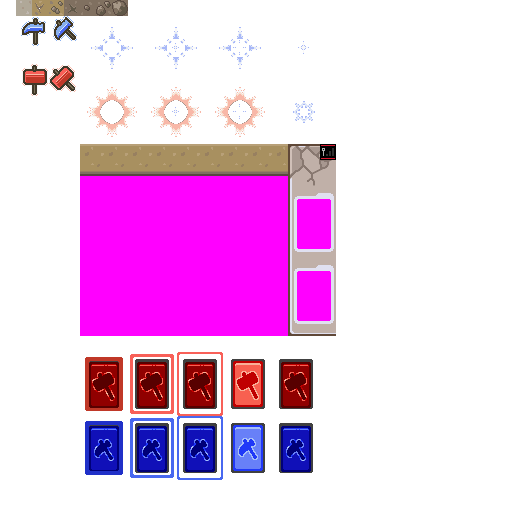
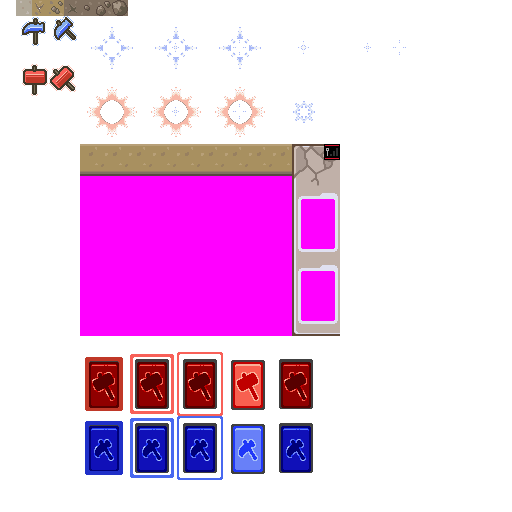
smooth style, DS bg

Changed region(s): [[0.5625, 0.2812, 0.6875, 0.6562], [0.4375, 0.6875, 0.5312, 0.9375]]

diff --git a/src/simulator/board.ts b/src/simulator/board.ts
@@ -308,6 +308,13 @@ export class MiningGrid {
         this._grid_element.id = 'mining-grid'
         set_translation(this._grid_element, tile_size, 0, 2)
 
+        const shadow_overlay = this._background_sprite.element.appendChild(document.createElement('div'))
+        shadow_overlay.id = "overlay"
+        shadow_overlay.style.zIndex = '15'
+        shadow_overlay.style.boxShadow = 'inset 0 0 5em 1px rgb(0 0 0 / 78%), inset 0 0 1em 4px rgb(0 0 0)'
+        shadow_overlay.style.width = this._background_sprite.element.style.width
+        shadow_overlay.style.height = this._background_sprite.element.style.height
+
         this._hammer = new Hammer(this._grid_element, this._sprite_sheet)
 
         for (let x_index = 0; x_index < this.WIDTH; x_index++) {
@@ -318,7 +325,7 @@ export class MiningGrid {
             }
         }
 
-        // Setup dummy
+        // Setup dummy state
         this.game_state = new GameState(this._health_bar)
     }
 
@@ -337,6 +344,8 @@ export class MiningGrid {
         this.populate_board()
         this.game_state = new GameState(this._health_bar)
         this.transition_element = circle_animation(this._background_sprite.element, false)
+        this.transition_element.style.width = this._background_sprite.element.style.width
+        this.transition_element.style.height = this._background_sprite.element.style.height
         this.on_game_start?.(this.added_items)
     }
 

diff --git a/src/index.html b/src/index.html
@@ -65,6 +65,19 @@
 
     body {
       margin: 0;
+      background-image: url("./assets/DS.png");
+      background-position-x: center;
+      background-size: calc(1920px* 1.4) calc(1080px* 1.4);
+      background-position-y: -307px;
+    }
+
+    .title {
+      text-align: center;
+      background: white;
+      border-style: outset;
+      width: fit-content;
+      margin-left: auto;
+      margin-right: auto;
     }
 
     .inverted-text {
@@ -82,6 +95,8 @@
       flex-direction: row;
       justify-content: space-evenly;
       padding: 1em;
+      margin-top: 1em;
+      margin-bottom: 3em;
     }
 
     #main-content {
@@ -164,7 +179,7 @@
       height: 100%;
       float: inline-end;
       display: inline;
-      position: relative;
+      position: absolute;
       z-index: 2;
       pointer-events: none;
     }
@@ -259,7 +274,7 @@
 </head>
 
 <body>
-  <h1 style="text-align: center;">Diamond, Pearl, and Platinum underground mining game simulator</h1>
+  <h1 style="text-align: center;" class="title">Diamond, Pearl, and Platinum underground mining game simulator</h1>
 </body>
 
 </html>

diff --git a/src/index.ts b/src/index.ts
@@ -17,15 +17,20 @@ function component(): HTMLDivElement {
     lower_bar.className = 'horizontal-spread'
 
     const text = lower_bar.appendChild(document.createElement('h2'))
+    text.style.background = 'white'
+    text.style.minWidth = '13em'
+    text.style.textAlign = 'center'
+    text.style.borderStyle = 'inset'
 
     grid.on_game_start = (objects: ActiveObject[]): void => {
         text.innerText = `${objects.length} items detected`
     }
 
     grid.on_game_end = (): void => {
-        text.innerText = ''
+        text.innerHTML = '&zwnj;'
     }
 
+    element.appendChild(create_sprite_debugger(new SpriteSheet(16, './assets/board_sheet.png', new Vector2(512, 512), 3), 32, 32))
     grid.reset_board()
     return element
 }

diff --git a/src/simulator/objects.ts b/src/simulator/objects.ts
@@ -513,7 +513,6 @@ export const EVOLUTION_STONES = [
         new Rarity(2 / 2, 4 / 2, 3 / 2, 15 / 2), "Moon stone", // 0deg
         [ // Divide rarity by 2 since there are 2 instances
             [ false, true, true, true ],
-            [ true, true, true, true ],
             [ true, true, true, false ]
         ]
     ),
